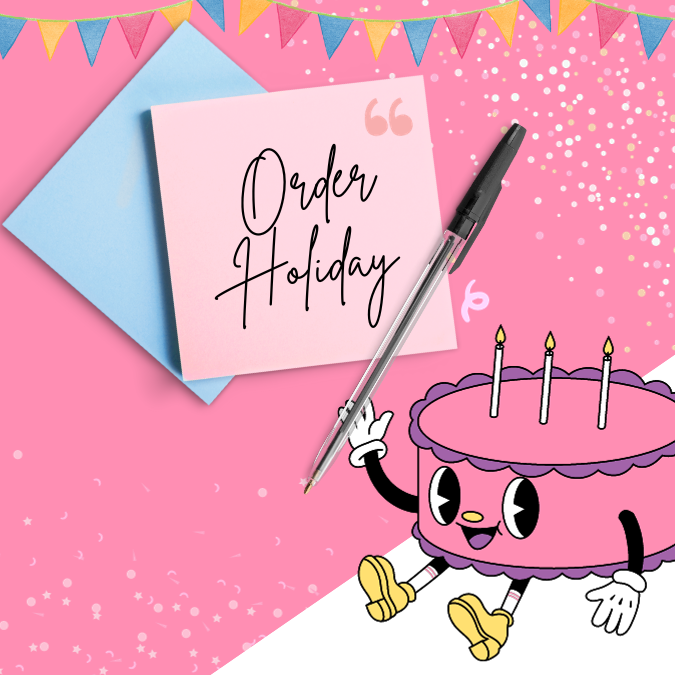
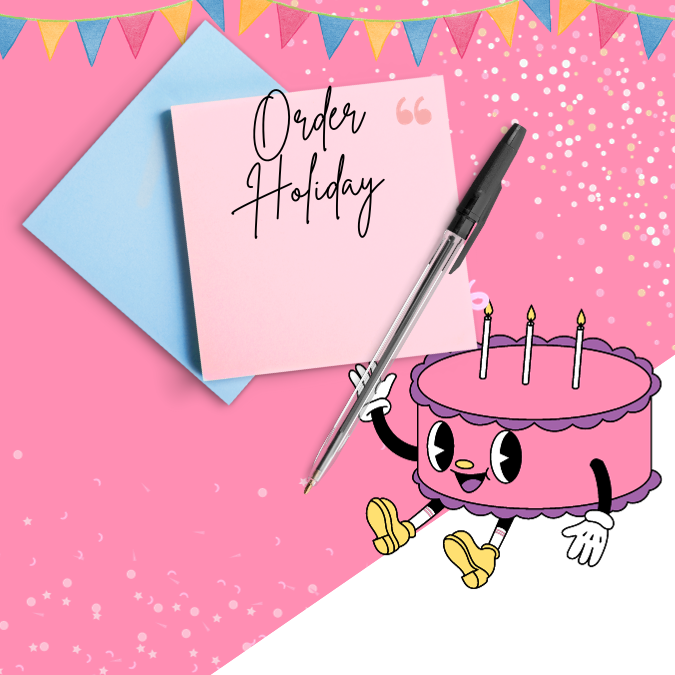
change background for order form

Changed region(s): [[0.0, 0.0311, 1.0, 0.9956]]

diff --git a/src/components/OrderForm/OrderForm.js b/src/components/OrderForm/OrderForm.js
@@ -4,7 +4,7 @@ import Checkbox from '@mui/material/Checkbox';
 import FormGroup from '@mui/material/FormGroup';
 import FormLabel from '@mui/material/FormLabel';
 import FormControlLabel from '@mui/material/FormControlLabel';
-import { teal, yellow, red } from '@mui/material/colors';
+import { teal, yellow, red, green, blue } from '@mui/material/colors';
 import FavoriteBorder from '@mui/icons-material/FavoriteBorder';
 import Favorite from '@mui/icons-material/Favorite';
 import {
@@ -80,8 +80,9 @@ export const OrderForm = ({ isOrderFormOpen, openForm }) => {
         <FormLabel
           id="demo-radio-buttons-group-label"
           sx={{
-            '& .MuiSvgIcon-root': { fontSize: 28 },
-            color: teal[50],
+            fontSize: 28,
+            '& .MuiSvgIcon-root': {},
+            color: red[500],
           }}
         >
           Вибрати свято
@@ -98,9 +99,9 @@ export const OrderForm = ({ isOrderFormOpen, openForm }) => {
             label="Твій день народження"
             sx={{
               '& .MuiSvgIcon-root': { fontSize: 28 },
-              color: teal[50],
+              color: blue[800],
               '& .Mui-checked': {
-                color: yellow[600],
+                color: yellow[500],
               },
             }}
           />
@@ -115,9 +116,9 @@ export const OrderForm = ({ isOrderFormOpen, openForm }) => {
             label="Веселі ігри"
             sx={{
               '& .MuiSvgIcon-root': { fontSize: 28 },
-              color: teal[50],
+              color: blue[800],
               '& .Mui-checked': {
-                color: yellow[600],
+                color: yellow[500],
               },
             }}
           />
@@ -132,9 +133,9 @@ export const OrderForm = ({ isOrderFormOpen, openForm }) => {
             label="Розваги на воді"
             sx={{
               '& .MuiSvgIcon-root': { fontSize: 28 },
-              color: teal[50],
+              color: blue[800],
               '& .Mui-checked': {
-                color: yellow[600],
+                color: yellow[500],
               },
             }}
           />

diff --git a/src/components/OrderForm/OrderForm.styled.js b/src/components/OrderForm/OrderForm.styled.js
@@ -1,15 +1,15 @@
 import styled from '@emotion/styled';
 import { colors, breakPoints } from 'base-styles/variables';
-import BgOrderForm from '../../images/backgrounds/BackgroundOrderForm.png';
+import BgOrderForm from '../../images/backgrounds/bg-paperDesk@1x.png';
 
 export const BackdropForm = styled.div`
   position: absolute;
   display: flex;
   flex-direction: column;
   align-items: center;
-  padding-bottom: 50px;
+  padding-bottom: 20px;
   width: 650px;
-  height: 700px;
+  height: 600px;
   top: 0;
   left: 0;
 
@@ -42,7 +42,8 @@ export const FormTitle = styled.h2`
   color: ${colors.black};
   text-align: center;
   margin: 0;
-  margin-bottom: 40px;
+  margin-bottom: -10px;
+  margin-top: -10px;
 
   @media screen and (min-width: ${breakPoints.tablet}) {
     font-size: 36px;
